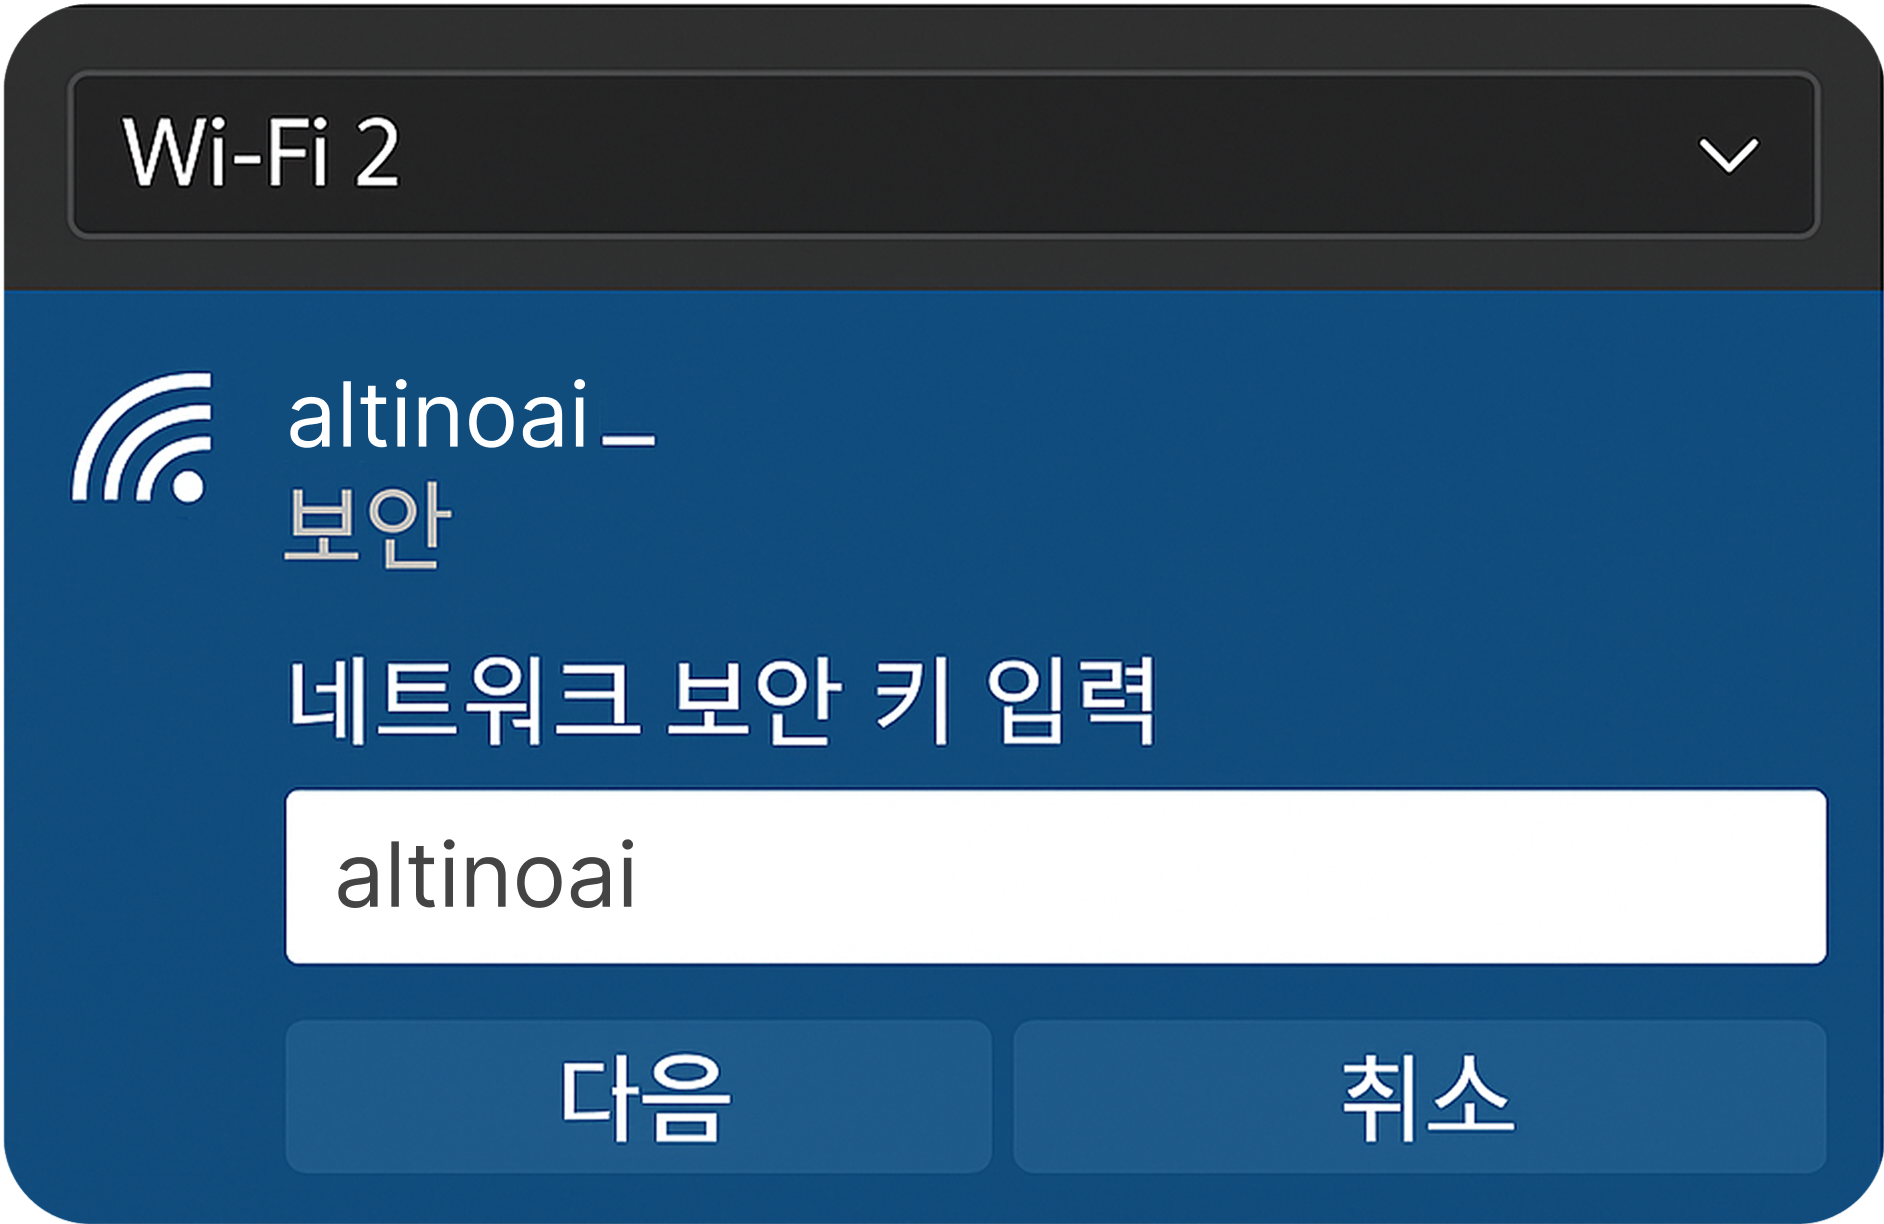
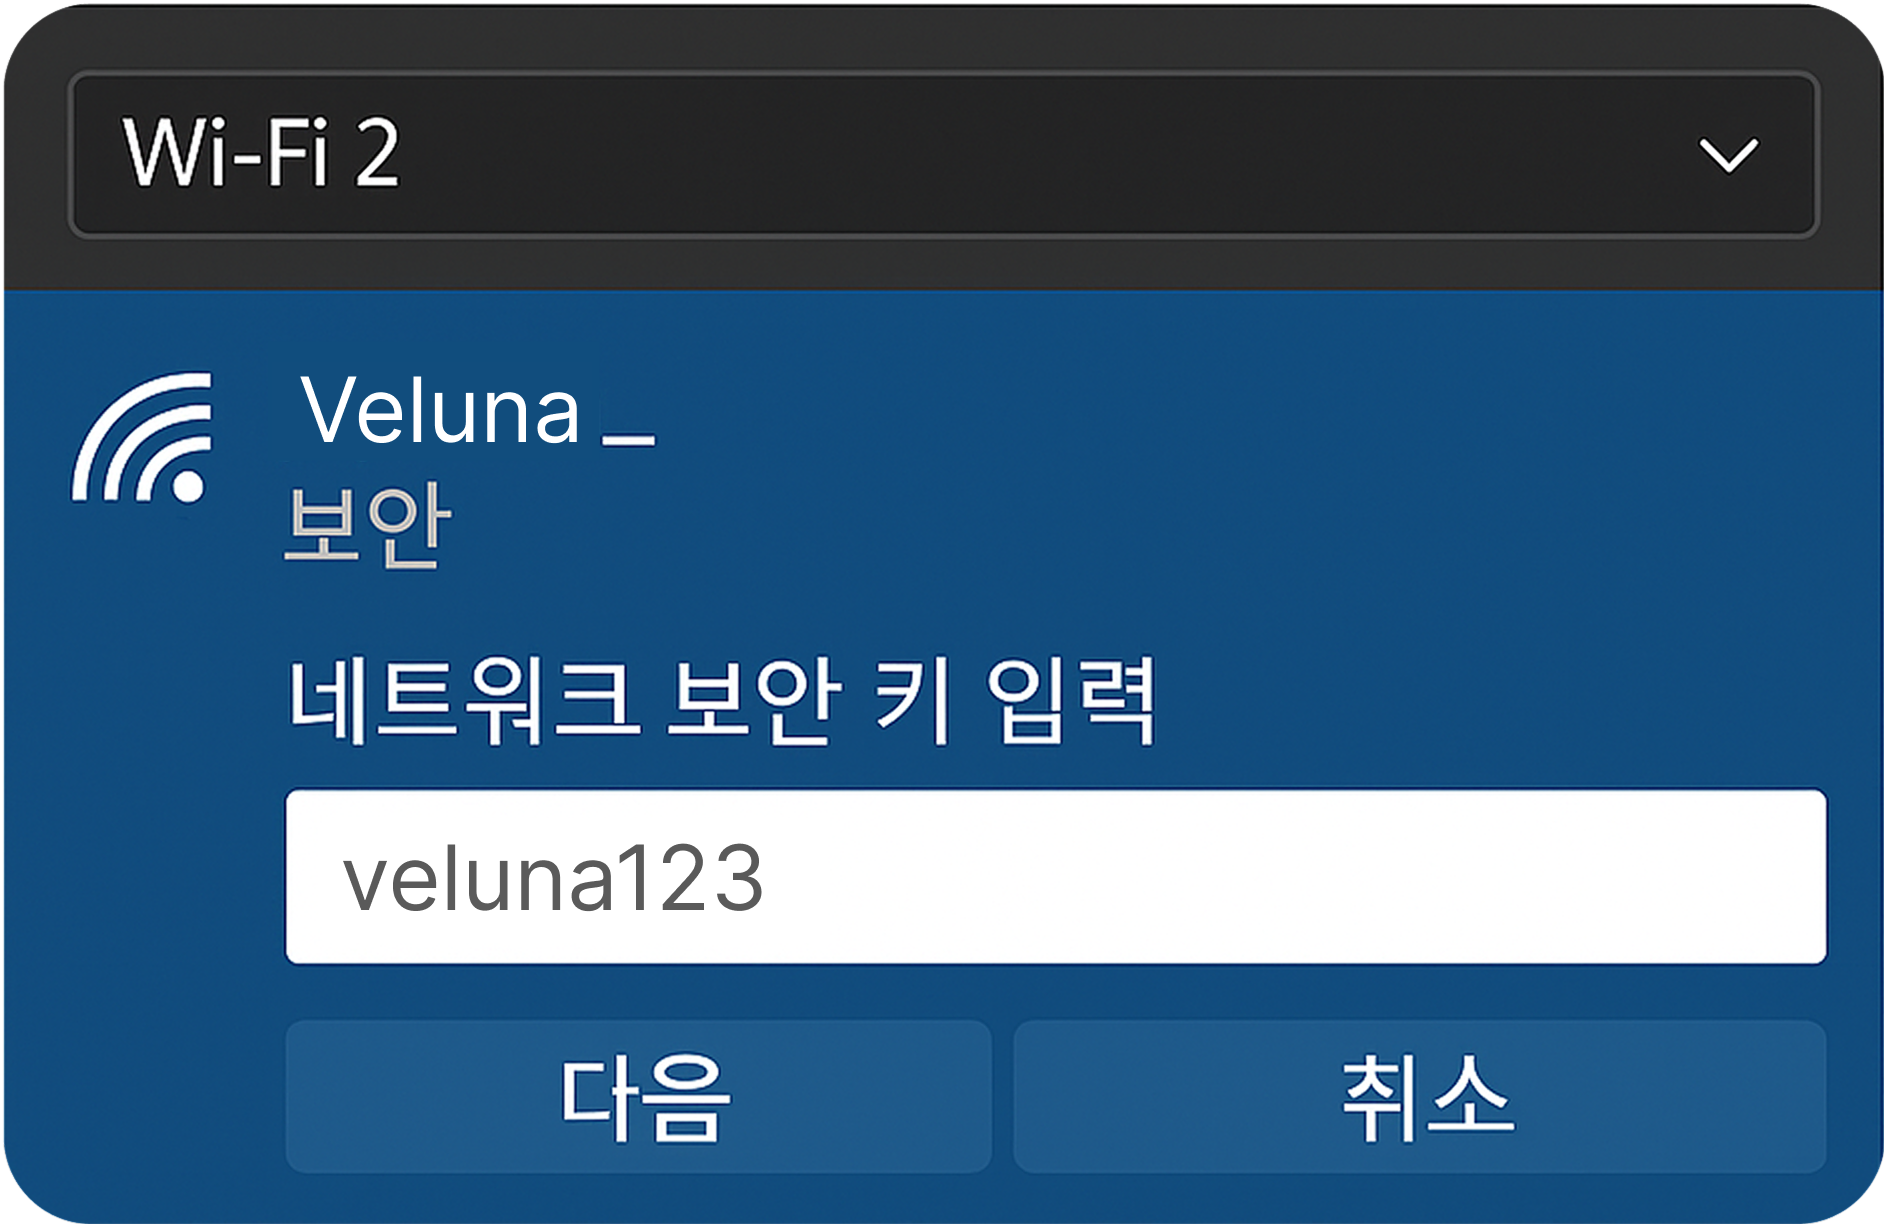
first

Changed region(s): [[0.1847, 0.683, 0.4002, 0.7451], [0.1539, 0.3105, 0.3079, 0.3725]]

diff --git a/src/renderer/src/App.tsx b/src/renderer/src/App.tsx
@@ -50,7 +50,7 @@ function App(): JSX.Element {
   const currentSSID = wifiInfo?.find(
     item =>
       item.interfaceName?.startsWith('TP-Link') &&
-      item.ssid?.includes('altinoai')
+      item.ssid?.includes('Veluna')
   )?.ssid;
 
   // ✅ webview 이벤트 등록 및 로딩 처리
@@ -129,7 +129,7 @@ function App(): JSX.Element {
     const isTPLinkConnected = wifiInfo?.some(
       item =>
         item.interfaceName?.startsWith('TP-Link') &&
-        item.ssid?.includes('altinoai')
+        item.ssid?.includes('Veluna')
     );
     if (!isTPLinkConnected) {
       setLoading(true);
@@ -150,7 +150,7 @@ function App(): JSX.Element {
           const tpLink = wifiInfo?.find(
             item =>
               item.interfaceName?.startsWith('TP-Link') &&
-              item.ssid?.includes('altinoai')
+              item.ssid?.includes('Veluna')
           );
 
           if (!tpLink) return <WiFi />;

diff --git a/src/renderer/src/components/Header.tsx b/src/renderer/src/components/Header.tsx
@@ -1,5 +1,5 @@
 import { useState,useEffect,useRef  } from 'react';
-import Veluna from '../assets/images/altinoai_logo.svg';
+import Veluna from '../assets/images/veluna_logo.png';
 import RemoteImage from '../assets/images/svg/remote.svg';
 import DriveImage from '../assets/images/svg/drive.svg';
 import WindowMinimizeImage from '../assets/images/svg/window-minimize.svg';
@@ -147,7 +147,7 @@ const Header = ({ wifiInfo,reloadWebview }) => {
                 {(() => {
                   const tpLink = wifiInfo?.find((item) =>
                     item.interfaceName.startsWith('TP-Link') &&
-                    item.ssid?.includes('altinoai')
+                    item.ssid?.includes('Veluna')
                   );
                   return tpLink ? `${tpLink.ssid}` : '연결없음';
                 })()}

diff --git a/src/renderer/src/popups/WiFiGuide.tsx b/src/renderer/src/popups/WiFiGuide.tsx
@@ -33,8 +33,8 @@ const WiFiGuide = ({ onClose }) => {
           </p>
           <img src={WiFiIMG} onClick={window.api.openWifiTray} alt="Wi-Fi Icon" className="w-[300px]  mx-auto mb-4 hover:cursor-pointer hover:scale-105 duration-300 hover:shadow-lg" />
           <p className="text-[16px] text-[#444444] font-medium">
-            5. 인터페이스를 선택한 뒤, <strong>altinoai_</strong>로 시작하는 Wi-Fi를 선택하고
-            보안 키 <strong>altinoai</strong>을 입력하세요.
+            5. 인터페이스를 선택한 뒤, <strong>Veluna_</strong>로 시작하는 Wi-Fi를 선택하고
+            보안 키 <strong>veluna123</strong>을 입력하세요.
           </p>
           <img src={WiFiPWD}  alt="Wi-Fi Icon" className="w-[300px]  mx-auto mb-4" />
         </div>

diff --git a/src/main/index.ts b/src/main/index.ts
@@ -15,7 +15,7 @@ function createWindow() {
     height: 1080,
     minWidth: 1200,
     minHeight: 700,
-    icon: path.join(__dirname, '../../public/altino.ico'),
+    icon: path.join(__dirname, '../../public/Veluna.ico'),
     show: false, // 처음에는 숨김
     autoHideMenuBar: true,
     frame: false, // 창 테두리 제거 (필요하면 true로 변경)
@@ -51,7 +51,7 @@ function createSplashScreen() {
   splash = new BrowserWindow({
     width: 960,  // 💡 가로 크기 1200px
     height: 540, // 💡 세로 크기 800px
-    icon: path.join(__dirname, '../../public/altino.ico'),
+    icon: path.join(__dirname, '../../public/Veluna.ico'),
     frame: false, // 창 테두리 제거 (필요하면 true로 변경)
     alwaysOnTop: true,
     transparent: true, // ✅ 배경 투명하게

diff --git a/public/splash.html b/public/splash.html
@@ -21,6 +21,6 @@
   </style>
 </head>
 <body>
-  <img src="altinoai_logo.png" alt="Splash Image">
+  <img src="veluna_logo.png" alt="Splash Image">
 </body>
 </html>
